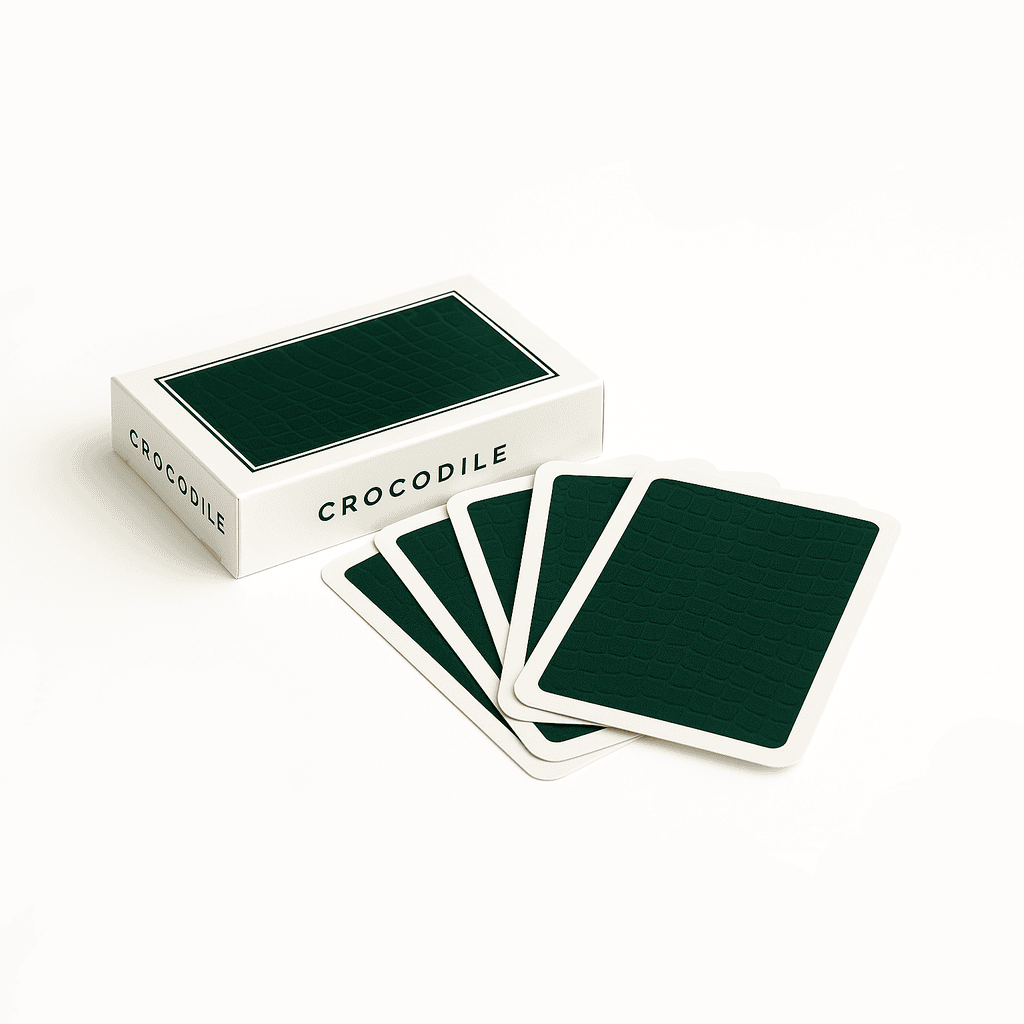
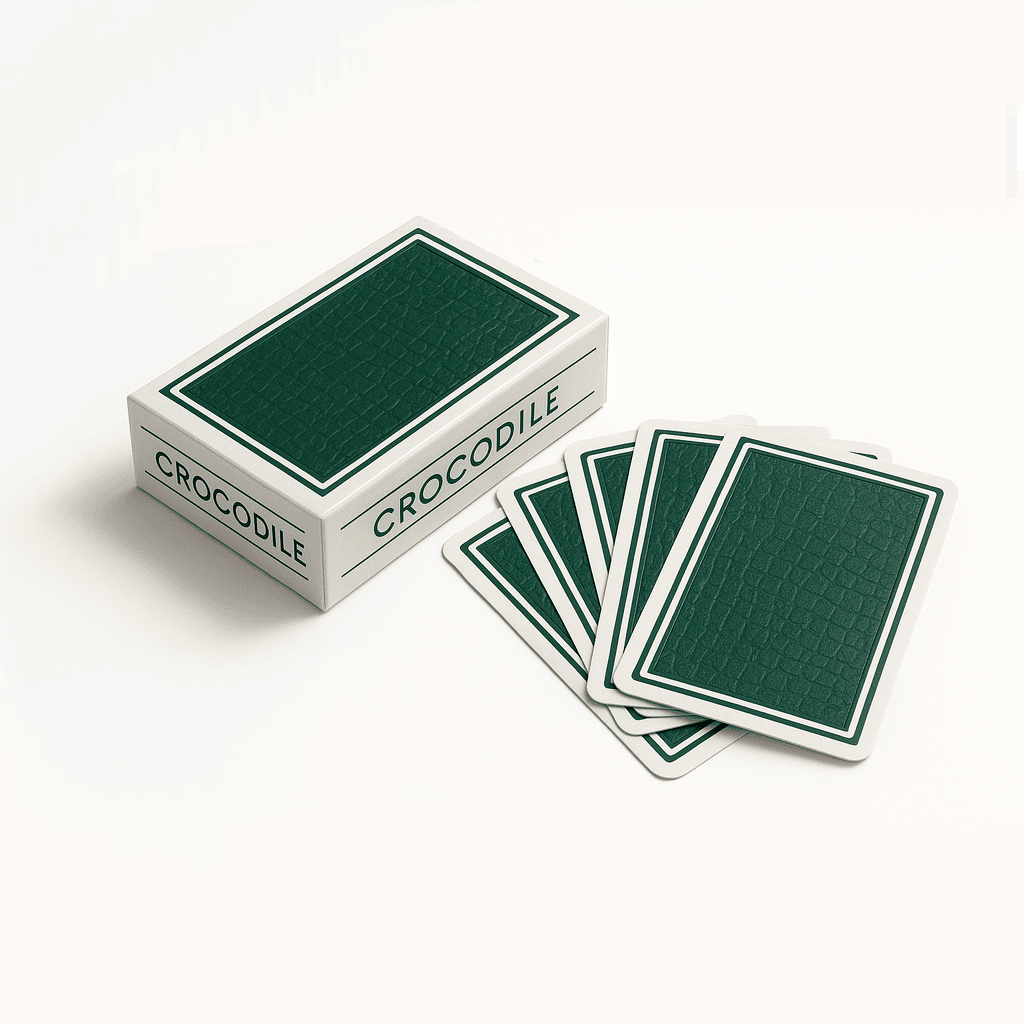
new product and images

Changed region(s): [[0.0625, 0.2188, 0.9375, 0.7812]]

diff --git a/frontend/src/pages/CardValues.tsx b/frontend/src/pages/CardValues.tsx
@@ -1,10 +1,11 @@
 import { Link, useNavigate } from "react-router-dom";
-import KingOfHearts from "../assets/images/card_images/king_of_hearts.png";
-import Joker from "../assets/images/card_images/joker.png";
-import AceOfSpades from "../assets/images/card_images/ace_of_spades.png";
-import TwoOfDiamonds from "../assets/images/card_images/2_of_diamonds.png";
-import ThreeOfHearts from "../assets/images/card_images/3_of_hearts.png";
-import QueenOfClubs from "../assets/images/card_images/queen_of_clubs.png";
+import CrocCardFreshwater from "../assets/images/card_images/croc-card-freshwater.png";
+import CrocCardCrocodamelon from "../assets/images/card_images/croc-card-crocodameleon.png";
+import CrocCardOrinoco from "../assets/images/card_images/croc-card-orinoco.png";
+import CrocCardAlligator from "../assets/images/card_images/croc-card-alligator.png";
+import CrocCardPhillipine from "../assets/images/card_images/croc-card-phillipine.png";
+import CrocCardSaltwater from "../assets/images/card_images/croc-card-saltwater.png";
+// import CrocCardNile from "../assets/images/card_images/croc-card-nile.png";
 
 const CardValues = () => {
 	const navigate = useNavigate();
@@ -15,27 +16,28 @@ const CardValues = () => {
 			<div className="playing-cards">
 				<div className="playing-card">
 					<img
-						src={KingOfHearts}
-						alt="King of hearts playing card."
+						src={CrocCardFreshwater}
+						alt="Saltwater Crocodile Playing Card - -1"
 					/>
 					<div className="playing-card-info">
-						<h4>Red King</h4>
+						<h4>The Freshwater Crocodile</h4>
 						<p><span className="playing-card-value">Value: -1</span>
 							The most valuable card on the table. 
-							Keep this in your hand and try to not let
-							any crocs catch scent of it.
+							Keep this salty in your hand and try 
+							to not let any others catch scent of it.
 						</p>
 					</div>
 				</div>
 				<div className="playing-card">
 					<img
-						src={QueenOfClubs}
-						alt="Queen of clubs playing card."
+						src={CrocCardSaltwater}
+						alt="The Saltwater Crocodile Playing Card - 10"
 					/>
 					<div className="playing-card-info">
-						<h4>Any other face card</h4>
+						<h4>The Big Boys</h4>
 						<p><span className ="playing-card-value">Value: 10</span>
-							The highest scoring card and 
+							You will find 10 of these heavy hitters
+							throughout the pack. The highest scoring card and 
 							arguably the worst on the table. 
 							What good are they for? 
 							<span>Smackdowns, actually.</span>
@@ -44,55 +46,53 @@ const CardValues = () => {
 				</div>
 				<div className="playing-card">
 					<img
-						src={Joker}
-						alt="Joker playing card."
+						src={CrocCardCrocodamelon}
+						alt="Crocodamelon Playing Card - 0"
 					/>
 					<div className="playing-card-info">
-						<h4>Joker</h4>
+						<h4>The Crocodamelon</h4>
 						<p><span className ="playing-card-value">Value: 0</span>
-							The second most valuable card. 
-							Hang on to this one.
+							The second most valuable card. Hang on this cheeky
+							croc, wait a second that's not a crocodile?
 						</p>
 					</div>
 				</div>
 				<div className="playing-card">
 					<img
-						src={AceOfSpades}
-						alt="Ace of spades playing card."
+						src={CrocCardOrinoco}
+						alt="The Orinoco Crocodile Playing Card - 1"
 					/>
 					<div className="playing-card-info">
-						<h4>Ace</h4>
+						<h4>The Orinoco Crocodile</h4>
 						<p><span className ="playing-card-value">Value: 1</span>
-							Aces are a nice card to keep in your hand.
+							A nice croc to keep hidden in your hand.
 						</p>
 					</div>
 				</div>
 				<div className="playing-card">
 					<img
-						src={TwoOfDiamonds}
-						alt="2 of diamonds playing card."
+						src={CrocCardAlligator}
+						alt="The American Alligator Playing Card- 2"
 					/>
 					<div className="playing-card-info">
-						<h4>2</h4>
+						<h4>2 - The American Alligator</h4>
 						<p><span className ="playing-card-value">Value: 2</span>
 							Not bad. But as the old sayin goes: 
-							<span>2's don't win games.</span>
+							<span>2's don't win games.</span> 
 						</p>
 					</div>
 				</div>
 				<div className="playing-card">
 					<img
-						src={ThreeOfHearts}
-						alt="3 of hearts playing card."
+						src={CrocCardPhillipine}
+						alt="The Phillipine Crocodile Playing Card - 3"
 					/>
 					<div className="playing-card-info">
-						<h4>3</h4>
+						<h4>3 - The Phillipine Crocodile</h4>
 						<p><span className ="playing-card-value">Value: 3</span>
-							I wouldn't bank on this. 
-							Card values reflect the 
-							value seen on the face of the 
-							card from here on out. 
-							<span>4 = 4, 5 = 5 and so on.</span>
+							I wouldn't bank on this croc. 
+							Cards are worth the value as pictured on the card,
+							you've got the hang of it by now.
 						</p>
 					</div>
 				</div>

diff --git a/frontend/src/pages/PowerCards.tsx b/frontend/src/pages/PowerCards.tsx
@@ -1,8 +1,8 @@
 import { Link, useNavigate, useLocation } from "react-router-dom"
-import CrocCard10 from "../assets/images/card_images/croc-card-10.png"
-import CrocCard9 from "../assets/images/card_images/croc-card-9.png"
-import CrocCard8 from "../assets/images/card_images/croc-card-8.png"
-import CrocCard7 from "../assets/images/card_images/croc-card-7.png"
+import CrocCardSpectacledCaiman from "../assets/images/card_images/croc-card-spectacled-caiman.png"
+import CrocCardFalseGharial from "../assets/images/card_images/croc-card-false-gharial.png"
+import CrocCardGharial from "../assets/images/card_images/croc-card-gharial.png"
+import CrocCardMugger from "../assets/images/card_images/croc-card-mugger.png"
 
 const PowerCards = () => {
 	const navigate = useNavigate()
@@ -31,7 +31,7 @@ const PowerCards = () => {
 			<div className="power-cards">
 				<div className="power-card">
 					<img
-						src={CrocCard7}
+						src={CrocCardSpectacledCaiman}
 						alt="The Spectacled Caiman Playing Card - 7"
 					/>
 					<div className="power-card-info">
@@ -41,7 +41,7 @@ const PowerCards = () => {
 				</div>
 				<div className="power-card">
 					<img
-						src={CrocCard8}
+						src={CrocCardFalseGharial}
 						alt="The False Gharial Playing Card - 8"
 						/>
 					<div className="power-card-info">
@@ -51,11 +51,11 @@ const PowerCards = () => {
 				</div>
 				<div className="power-card">
 					<img
-						src={CrocCard9}
-						alt="The Mugger Crocodile Playing Card - 9"
+						src={CrocCardGharial}
+						alt="The CrocCardMugger Crocodile Playing Card - 9"
 					/>
 					<div className="power-card-info">
-						<h4>9 - The Mugger Crocodile: Blind Swap or 'Switcharoo'</h4>
+						<h4>9 - The Gharial: Blind Swap or 'Switcharoo'</h4>
 						<p>
 						Mix things up! Swap two face-down cards on the table. It
 						can be between your card and another player's, or
@@ -65,11 +65,11 @@ const PowerCards = () => {
 				</div>
 				<div className="power-card">
 					<img
-						src={CrocCard10}
+						src={CrocCardMugger}
 						alt="The Nile Crocodile Playing Card - 10"
 						/>
 					<div className="power-card-info">
-						<h4>10 - The Nile Crocodile: Power Swap or 'The Punisher'</h4>
+						<h4>10 - The Mugger Crocodile: Power Swap or 'The Punisher'</h4>
 						<p>
 							The ultimate power play! View one of your cards and
 							another player's card. Decide to swap them or not. It's
